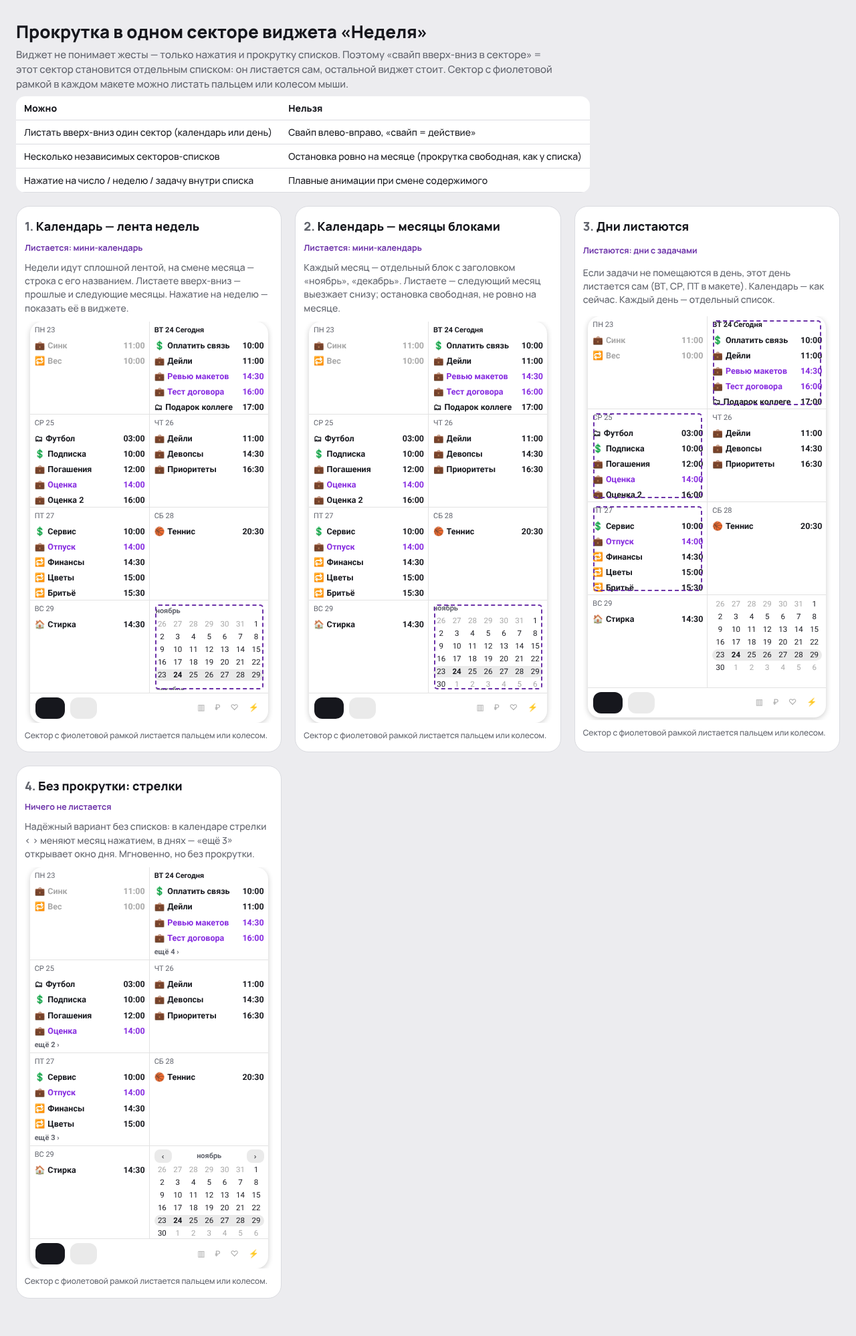
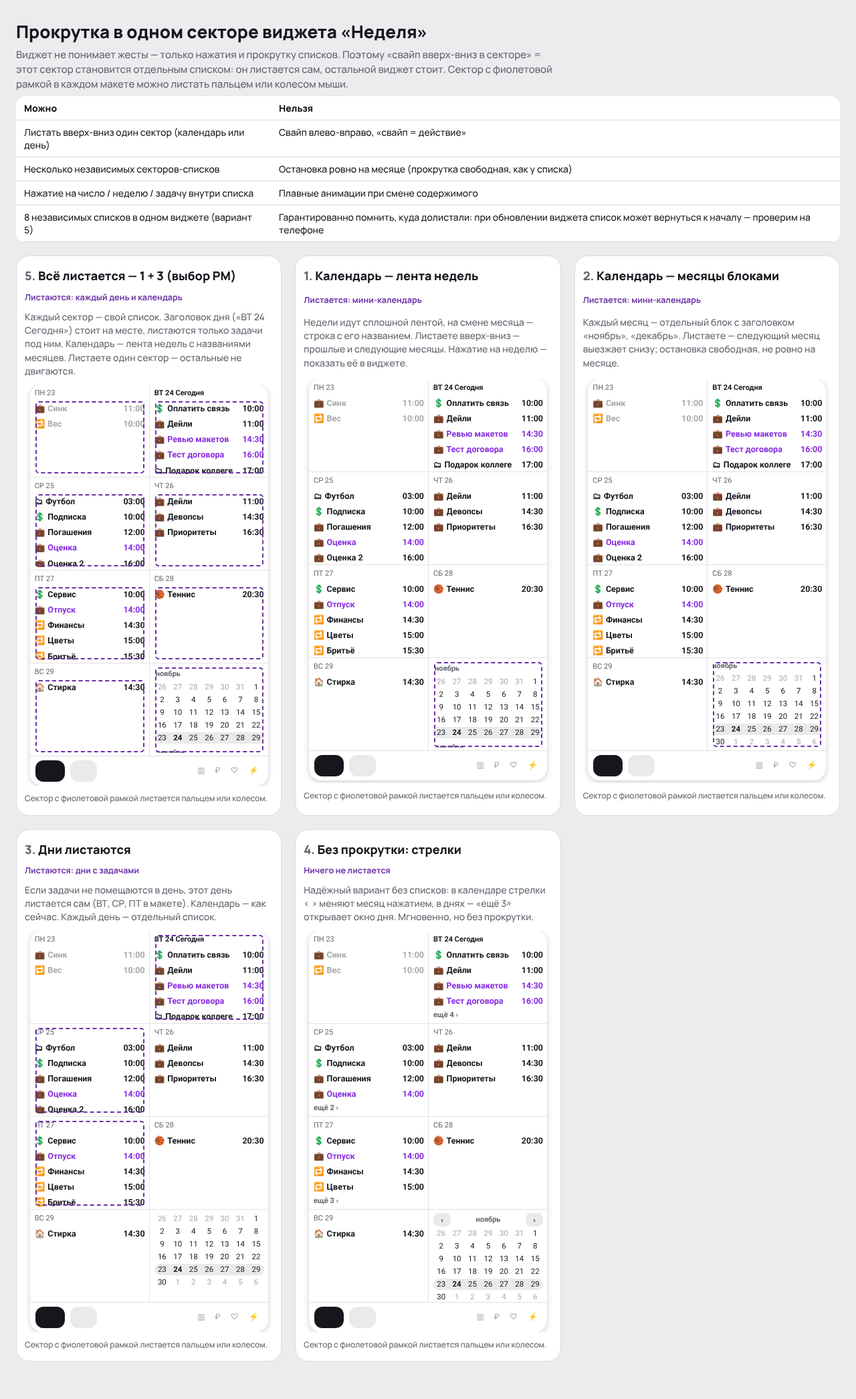
#313: вариант 5 «всё листается»; #314: 8 вариантов анимации выполнения
Claude-Session: https://claude.ai/code/session_019jJJH8rKyfX5gCn8Qf3pcD

diff --git a/design/drafts/popup-motion/completion.html b/design/drafts/popup-motion/completion.html
@@ -1,0 +1,157 @@
+<title>Выполнение задачи: анимации</title>
+<meta name="claude:viewport-fit-sides" content="cover">
+<link rel="stylesheet" href="https://fonts.googleapis.com/css2?family=Manrope:wght@500;600;700;800&display=swap">
+<!--
+  #314, вопрос PM 24.11.2026: другие варианты анимации выполнения (идея 3). Черновик на согласовании PM; основа — галерея анимаций для окон поверх рабочего стола (окно дня из виджета, окно задачи).
+  Окно — обычный экран приложения (Compose), в нём доступны любые анимации. Цвета приложения: surface #FFFFFF, textPrimary #16171D,
+  textSecondary #62656E, inactive #A9A9A9, accentSoft #EAEAEA, priority #862CE0 / #6B32A8, scrim 0x66000000.
+-->
+<style>
+  /* Страница: сетка карточек; в каждой — сцена 360 × 540 dp с окном дня и кнопка повторить. Анимации крутятся по кругу. */
+  :root { --page: #ECECEF; --ink: #16171D; --muted: #62656E; --panel: #FFFFFF; --line: #DADBE0; --chip: #E2E3E8; --on: #16171D; --on-ink: #FFFFFF; --hi: #6B32A8;
+    --font: "Manrope", system-ui, -apple-system, "Segoe UI", sans-serif;
+    --s: #FFFFFF; --t1: #16171D; --t2: #62656E; --gray: #A9A9A9; --soft: #EAEAEA; --prio: #862CE0; --red: #C62828; --green: #1F8F4E; }
+  @media (prefers-color-scheme: dark) { :root:not([data-theme="light"]) { --page: #141518; --ink: #ECECEF; --muted: #A3A5AD; --panel: #1E1F23; --line: #2E3036; --chip: #2A2C31; --on: #ECECEF; --on-ink: #16171D; --hi: #D4B8F5; color-scheme: dark } }
+  :root[data-theme="dark"] { --page: #141518; --ink: #ECECEF; --muted: #A3A5AD; --panel: #1E1F23; --line: #2E3036; --chip: #2A2C31; --on: #ECECEF; --on-ink: #16171D; --hi: #D4B8F5; color-scheme: dark }
+  * { box-sizing: border-box; }
+  body { background: var(--page); color: var(--ink); font-family: var(--font); font-size: 15px; line-height: 1.45;
+    padding-left: max(16px, env(safe-area-inset-left, 0px)); padding-right: max(16px, env(safe-area-inset-right, 0px)); padding-block: 24px 48px; }
+  .wrap { max-width: 1560px; margin: 0 auto; display: grid; gap: 20px; }
+  h1 { margin: 0; font-size: 26px; font-weight: 800; line-height: 1.2; text-wrap: balance; }
+  .lead { margin: 0; color: var(--muted); max-width: 840px; }
+  .grid { display: grid; grid-template-columns: repeat(auto-fill, minmax(min(100%, 384px), 1fr)); gap: 20px; }
+  .v { background: var(--panel); border: 1px solid var(--line); border-radius: 20px; padding: 16px 12px; display: grid; gap: 10px; justify-items: center; min-width: 0; align-content: start; }
+  .v .hd { width: 100%; max-width: 360px; display: grid; gap: 4px; }
+  .v h2 { margin: 0; font-size: 18px; font-weight: 800; display: flex; gap: 8px; }
+  .v h2 .n { color: var(--muted); font-variant-numeric: tabular-nums; }
+  .v p { margin: 0; color: var(--muted); font-size: 14px; }
+  .v .when { font-size: 12.5px; font-weight: 700; color: var(--hi); }
+  .again { font: 700 13px/1 var(--font); color: var(--ink); background: var(--chip); border: 0; border-radius: 10px; padding: 9px 12px; cursor: pointer; }
+  .again:focus-visible { outline: 2px solid #438BC9; outline-offset: 2px; }
+  .scroller { width: 100%; overflow-x: auto; display: flex; justify-content: center; }
+
+  /* Сцена: виджет (бледно), затемнение, окно дня снизу */
+  .stage { width: 360px; height: 540px; flex: none; position: relative; overflow: hidden; border-radius: 26px; background: linear-gradient(170deg, #4A2E7A, #8E3E8C 55%, #D06A6A); color: var(--t1); }
+  .wgrid { position: absolute; left: 8px; right: 8px; top: 10px; height: 300px; background: #FFFFFFEE; border-radius: 16px; display: grid; grid-template-columns: 1fr 1fr; grid-template-rows: repeat(3, 1fr); }
+  .wgrid div { border-right: 1px solid #E2E2E2; border-bottom: 1px solid #E2E2E2; padding: 5px 7px; font: 600 10.5px/1.6 Roboto, system-ui, sans-serif; color: #62656E; }
+  .wgrid div b { display: block; color: #16171D; font-size: 11px; }
+  .scrim { position: absolute; inset: 0; background: #00000066; }
+  .sheet { position: absolute; left: 8px; right: 8px; bottom: 8px; height: 330px; background: var(--s); border-radius: 22px; box-shadow: 0 6px 24px #0004; overflow: hidden; }
+  .sh-h { display: flex; justify-content: space-between; align-items: center; padding: 16px 16px 6px 18px; }
+  .sh-h b { font-size: 19px; font-weight: 800; }
+  .plus { width: 72px; height: 36px; border-radius: 18px; background: var(--t1); color: #fff; display: grid; place-items: center; font-size: 22px; font-weight: 500; }
+  .rows { position: relative; padding: 0 12px; }
+  .r { display: grid; grid-template-columns: 46px 24px 1fr 26px 26px; gap: 8px; align-items: center; height: 46px; position: relative; background: var(--s); }
+  .r .tm { font-size: 14px; font-weight: 600; color: var(--t1); font-variant-numeric: tabular-nums; }
+  .r .ic { width: 20px; height: 20px; border-radius: 50%; border: 2px solid var(--gray); position: relative; }
+  .r .ic.p { border-color: var(--prio); }
+  .r .ic.rep { border: 0; color: var(--gray); font-size: 17px; line-height: 20px; text-align: center; }
+  .r .ti { font-size: 16.5px; font-weight: 600; white-space: nowrap; overflow: hidden; text-overflow: ellipsis; position: relative; }
+  .r .bell { color: var(--t2); font-size: 15px; text-align: center; }
+  .r .em { font-size: 17px; text-align: center; }
+  .line { position: absolute; left: 70px; top: 0; bottom: 0; width: 2px; background: #E2E2E2; }
+  .now { position: absolute; left: 12px; right: 12px; height: 2px; background: var(--red); }
+  .now::before { content: ""; position: absolute; left: 56px; top: -4px; width: 10px; height: 10px; border-radius: 50%; background: var(--red); }
+  .strike { position: absolute; left: 0; top: 50%; height: 2px; width: 0; background: var(--gray); }
+  .fill { position: absolute; inset: -2px; border-radius: 50%; background: var(--gray); transform: scale(0); display: grid; place-items: center; color: #fff; font-size: 12px; font-weight: 800; }
+  .under { position: absolute; inset: 0; display: flex; align-items: center; padding: 0 16px; font-weight: 800; color: #fff; font-size: 14px; }
+  .spark { position: absolute; width: 7px; height: 7px; border-radius: 2px; }
+  .card2 { position: absolute; background: var(--s); border-radius: 22px; box-shadow: 0 6px 24px #0004; }
+  @media (prefers-reduced-motion: reduce) { .v .rm { display: block; } }
+  .rm { display: none; font-size: 12px; color: var(--muted); }
+</style>
+
+<div class="wrap">
+  <header style="display:grid;gap:8px">
+    <h1>Выполнение задачи — 8 вариантов анимации</h1>
+    <p class="lead">PM попросил другие варианты для идеи 3 «Выполнение». Во всех вариантах нажимается кружок у «Запланировать отпуск» (задача с приоритетом). Каждый крутится по кругу; «Повторить» запускает заново. Выберите один — его поставим и в приложении, и в окнах поверх рабочего стола.</p>
+    <p class="rm">В системе включено «уменьшение движения» — анимации показаны без движения.</p>
+  </header>
+  <section class="grid" id="grid"></section>
+</div>
+
+<script>
+(() => {
+  const reduced = matchMedia('(prefers-reduced-motion: reduce)').matches;
+  const ROWS = [
+    ['10:00', 'rep', 'Сервис', '💲'], ['14:00', 'p', 'Запланировать отпуск', '💼'], ['14:30', 'rep', 'Финансы', '🔁'],
+    ['15:00', 'rep', 'Цветы', '🔁'], ['20:00', '', 'Квест', '🎮'],
+  ];
+  const row = ([tm, k, ti, em], i) => `<div class="r" data-i="${i}"><span class="tm">${tm}</span><span class="ic ${k === 'p' ? 'p' : k === 'rep' ? 'rep' : ''}">${k === 'rep' ? '⟳' : ''}</span><span class="ti">${ti}</span><span class="bell">🔔</span><span class="em">${em}</span></div>`;
+  const sheetHtml = (title = 'пт, 27 ноя', rows = ROWS) => `<div class="sheet"><div class="sh-h"><b>${title}</b><span class="plus">+</span></div><div class="rows"><div class="line"></div>${rows.map(row).join('')}</div></div>`;
+  const stageHtml = inner => `<div class="stage"><div class="wgrid">${['ПН 23', 'ВТ 24 Сегодня', 'СР 25', 'ЧТ 26', 'ПТ 27', 'СБ 28'].map((d, i) => `<div data-cell="${i}"><b>${d}</b>${i === 4 ? 'Сервис 10:00<br>Отпуск 14:00<br>Финансы 14:30' : 'Задача<br>Задача'}</div>`).join('')}</div><div class="scrim"></div>${inner}</div>`;
+  const wait = ms => new Promise(r => setTimeout(r, ms));
+  const anim = (el, frames, opts) => el.animate(frames, { fill: 'both', easing: 'cubic-bezier(.2,.8,.2,1)', ...opts }).finished.catch(() => {});
+  const spring = 'cubic-bezier(.34,1.56,.64,1)';
+
+  /* Общее: задача 2 («Запланировать отпуск»), её кружок и название. */
+  const pick = st => { const r = st.querySelector('[data-i="1"]'); return { r, ic: r.querySelector('.ic'), ti: r.querySelector('.ti') }; };
+  const tick = (color = 'var(--prio)') => `<svg viewBox="0 0 20 20" width="20" height="20" style="position:absolute;inset:-2px"><circle cx="10" cy="10" r="10" fill="${color}" class="dot" style="transform-origin:10px 10px"/><path d="M5.5,10.5l3,3l6,-6.5" fill="none" stroke="#fff" stroke-width="2.4" stroke-linecap="round" stroke-linejoin="round" class="chk" pathLength="1" stroke-dasharray="1" stroke-dashoffset="1"/></svg>`;
+  const draw = async (ic, ms = 260) => { const svg = ic.querySelector('svg'); await anim(svg.querySelector('.dot'), [{ transform: 'scale(0)' }, { transform: 'scale(1)' }], { duration: 220, easing: spring }); await anim(svg.querySelector('.chk'), [{ strokeDashoffset: 1 }, { strokeDashoffset: 0 }], { duration: ms, easing: 'ease-out' }); };
+  const others = (st, from) => [...st.querySelectorAll('.r')].filter(x => +x.dataset.i > from);
+
+  const A = [
+    { name: 'Галочка и бледнеет на месте', when: 'Спокойный', desc: 'Кружок заливается, галочка рисуется штрихом, название сереет и зачёркивается. Задача остаётся на своём месте — ничего не прыгает.',
+      async run(st) { const { r, ic, ti } = pick(st); ic.style.border = '0'; ic.innerHTML = tick(); await wait(450); await draw(ic);
+        ti.style.textDecorationColor = 'transparent'; anim(ti, [{ color: '#16171D' }, { color: '#A9A9A9' }], { duration: 300 }); ti.style.textDecoration = 'line-through'; anim(ti, [{ textDecorationColor: 'transparent' }, { textDecorationColor: '#A9A9A9' }], { duration: 300 });
+        anim(r.querySelector('.tm'), [{ color: '#16171D' }, { color: '#A9A9A9' }], { duration: 300 }); await wait(1800); } },
+    { name: 'Схлопывается', when: 'Список короче', desc: 'Галочка, затем строка плавно сжимается по высоте и исчезает; задачи ниже подтягиваются. Выполненные — в «Выполнено» внизу.',
+      async run(st) { const { r, ic } = pick(st); ic.style.border = '0'; ic.innerHTML = tick(); await wait(450); await draw(ic); await wait(250);
+        anim(r, [{ opacity: 1 }, { opacity: 0 }], { duration: 220 }); others(st, 1).forEach(x => anim(x, [{ transform: 'none' }, { transform: 'translateY(-46px)' }], { duration: 380, delay: 120 })); await wait(1700); } },
+    { name: 'Волна по строке', when: 'Заметный', desc: 'От кружка по строке пробегает светло-фиолетовая волна фона, за ней текст сереет и зачёркивается.',
+      async run(st) { const { r, ic, ti } = pick(st); ic.style.border = '0'; ic.innerHTML = tick(); r.style.overflow = 'hidden';
+        r.insertAdjacentHTML('afterbegin', '<span style="position:absolute;left:0;top:4px;bottom:4px;width:0;background:#F1E8FA;border-radius:12px;z-index:0" class="wave"></span>'); [...r.children].forEach(c => { if (!c.classList.contains('wave')) c.style.position = 'relative'; c.style.zIndex = c.classList.contains('wave') ? 0 : 1; });
+        await wait(450); draw(ic); await anim(r.querySelector('.wave'), [{ width: '0%' }, { width: '100%' }], { duration: 420, easing: 'ease-out' });
+        ti.style.textDecoration = 'line-through'; anim(ti, [{ color: '#16171D' }, { color: '#A9A9A9' }], { duration: 250 }); anim(r.querySelector('.wave'), [{ opacity: 1 }, { opacity: 0 }], { duration: 500, delay: 200 }); await wait(1700); } },
+    { name: 'Пружинный чек', when: 'Игривый', desc: 'Кружок увеличивается с пружиной, внутри «выпрыгивает» галочка, строка чуть подскакивает. Задача бледнеет на месте.',
+      async run(st) { const { r, ic, ti } = pick(st); ic.style.border = '0'; ic.innerHTML = tick(); await wait(450);
+        anim(ic, [{ transform: 'scale(1)' }, { transform: 'scale(1.45)' }, { transform: 'scale(1)' }], { duration: 520, easing: spring }); await draw(ic, 200);
+        anim(r, [{ transform: 'none' }, { transform: 'translateY(-5px)' }, { transform: 'none' }], { duration: 360, easing: spring });
+        ti.style.textDecoration = 'line-through'; anim(r, [{ opacity: 1 }, { opacity: .5 }], { duration: 400, delay: 250 }); await wait(1700); } },
+    { name: 'Мини-искры', when: 'Маленький праздник', desc: 'При каждой выполненной задаче из кружка разлетается 6–8 искр, затем строка бледнеет. Большой праздник (идея 4) — когда закрыт весь день.',
+      async run(st) { const { r, ic, ti } = pick(st); ic.style.border = '0'; ic.innerHTML = tick(); await wait(450); draw(ic);
+        const box = st.getBoundingClientRect(), at = ic.getBoundingClientRect(); const colors = ['#862CE0', '#C9B3EA', '#438BC9', '#359E8A'];
+        for (let i = 0; i < 8; i++) { const s = document.createElement('span'); s.className = 'spark'; s.style.background = colors[i % 4]; s.style.width = s.style.height = '5px'; s.style.borderRadius = '50%';
+          s.style.left = (at.left - box.left + 8) + 'px'; s.style.top = (at.top - box.top + 8) + 'px'; st.appendChild(s);
+          const a = i / 8 * Math.PI * 2; anim(s, [{ transform: 'translate(0,0)', opacity: 1 }, { transform: `translate(${Math.cos(a) * 26}px,${Math.sin(a) * 26}px)`, opacity: 0 }], { duration: 520, easing: 'cubic-bezier(.1,.7,.3,1)' }); }
+        await wait(450); ti.style.textDecoration = 'line-through'; anim(r, [{ opacity: 1 }, { opacity: .5 }], { duration: 400 }); await wait(1600); } },
+    { name: 'Переворот', when: 'Эффектный', desc: 'Строка переворачивается, как карточка, и на обороте на секунду видно «Готово ✓», затем исчезает, соседи подтягиваются.',
+      async run(st) { const { r } = pick(st); await wait(500); r.style.transformOrigin = '50% 50%';
+        await anim(r, [{ transform: 'perspective(600px) rotateX(0deg)' }, { transform: 'perspective(600px) rotateX(90deg)' }], { duration: 220, easing: 'ease-in' });
+        const keep = r.innerHTML; r.innerHTML = '<span></span><span class="ic" style="border:0;background:var(--prio);color:#fff;display:grid;place-items:center;font-size:12px;font-weight:800">✓</span><span class="ti" style="color:var(--prio)">Готово</span><span></span><span></span>';
+        await anim(r, [{ transform: 'perspective(600px) rotateX(-90deg)' }, { transform: 'perspective(600px) rotateX(0deg)' }], { duration: 260, easing: 'ease-out' });
+        await wait(700); anim(r, [{ opacity: 1 }, { opacity: 0 }], { duration: 200 }); others(st, 1).forEach(x => anim(x, [{ transform: 'none' }, { transform: 'translateY(-46px)' }], { duration: 360, delay: 80 })); void keep; await wait(1500); } },
+    { name: 'Уходит вниз', when: 'Как в 3, мягче', desc: 'Галочка, затем строка сереет и плавно переезжает в конец списка, к выполненным — без зачёркивания, просто бледная.',
+      async run(st) { const { r, ic } = pick(st); ic.style.border = '0'; ic.innerHTML = tick('#A9A9A9'); await wait(450); await draw(ic); await wait(200);
+        anim(r, [{ opacity: 1, transform: 'none' }, { opacity: .45, transform: 'translateY(138px)' }], { duration: 650, easing: 'cubic-bezier(.4,0,.2,1)' });
+        others(st, 1).forEach(x => anim(x, [{ transform: 'none' }, { transform: 'translateY(-46px)' }], { duration: 650, easing: 'cubic-bezier(.4,0,.2,1)' })); await wait(1700); } },
+    { name: 'Удержание с прогрессом', when: 'Защита от случайных нажатий', desc: 'Кружок нужно подержать ~0,4 с: по ободу бежит заполнение, отпустил раньше — ничего не случилось. Потом галочка и бледнеет.',
+      async run(st) { const { r, ic, ti } = pick(st); ic.style.border = '0';
+        ic.innerHTML = '<svg viewBox="0 0 24 24" width="24" height="24" style="position:absolute;inset:-4px;transform:rotate(-90deg)"><circle cx="12" cy="12" r="10" fill="none" stroke="#E2E2E2" stroke-width="2"/><circle cx="12" cy="12" r="10" fill="none" stroke="#862CE0" stroke-width="2.4" pathLength="1" stroke-dasharray="1" stroke-dashoffset="1" class="ring"/></svg>';
+        await wait(500); await anim(ic.querySelector('.ring'), [{ strokeDashoffset: 1 }, { strokeDashoffset: 0 }], { duration: 420, easing: 'linear' });
+        ic.innerHTML = tick(); await draw(ic, 200); ti.style.textDecoration = 'line-through'; anim(r, [{ opacity: 1 }, { opacity: .5 }], { duration: 350 }); await wait(1700); } },
+  ];
+
+  const grid = document.getElementById('grid');
+  A.forEach((a, i) => {
+    const el = document.createElement('article'); el.className = 'v';
+    el.innerHTML = `<div class="hd"><h2><span class="n">${i + 1}</span>${a.name}</h2><span class="when">${a.when}</span><p>${a.desc}</p></div><div class="scroller"><div class="slot"></div></div><button type="button" class="again">Повторить</button>`;
+    grid.appendChild(el);
+    const slot = el.querySelector('.slot');
+    let token = 0;
+    const play = async () => {
+      const id = ++token;
+      slot.innerHTML = stageHtml(sheetHtml());
+      if (reduced) return;
+      await wait(300);
+      await a.run(slot.querySelector('.stage'));
+      if (id === token) setTimeout(() => { if (id === token && visible.has(el)) play(); }, 600);
+    };
+    el.querySelector('.again').addEventListener('click', play);
+    el._play = play;
+  });
+  const visible = new Set();
+  const io = new IntersectionObserver(es => es.forEach(e => { if (e.isIntersecting) { if (!visible.has(e.target)) { visible.add(e.target); e.target._play(); } } else visible.delete(e.target); }));
+  document.querySelectorAll('.v').forEach(v => { io.observe(v); if (reduced) v._play(); });
+})();
+</script>

diff --git a/design/drafts/widget-scroll/screens.html b/design/drafts/widget-scroll/screens.html
@@ -74,6 +74,7 @@
       <tr><td>Листать вверх-вниз один сектор (календарь или день)</td><td>Свайп влево-вправо, «свайп = действие»</td></tr>
       <tr><td>Несколько независимых секторов-списков</td><td>Остановка ровно на месяце (прокрутка свободная, как у списка)</td></tr>
       <tr><td>Нажатие на число / неделю / задачу внутри списка</td><td>Плавные анимации при смене содержимого</td></tr>
+      <tr><td>8 независимых списков в одном виджете (вариант 5)</td><td>Гарантированно помнить, куда долистали: при обновлении виджета список может вернуться к началу — проверим на телефоне</td></tr>
     </table></div>
   </header>
   <section class="grid" id="grid"></section>
@@ -102,6 +103,8 @@
   const dayHead = i => { const d = add(MON, i); return `<div class="dh">${same(d, TODAY) ? `<b>${DAYS[i]} ${d.getDate()} Сегодня</b>` : `${DAYS[i]} ${d.getDate()}`}</div>`; };
   const day = (i, opts = {}) => {
     const list = T[i];
+    // Вариант 5: заголовок дня стоит на месте, листаются только задачи под ним.
+    if (opts.tasks) return `<div class="cell" style="display:flex;flex-direction:column">${dayHead(i)}<div class="scroll live" style="flex:1;min-height:0">${list.map(task).join('')}</div></div>`;
     if (opts.scroll) return `<div class="cell"><div class="scroll live" style="height:100%">${dayHead(i)}${list.map(task).join('')}</div></div>`;
     const fit = 5, cut = opts.more && list.length > fit, shown = list.slice(0, cut ? fit - 1 : fit);
     return `<div class="cell">${dayHead(i)}${shown.map(task).join('')}${cut ? `<div class="more">ещё ${list.length - shown.length} ›</div>` : ''}</div>`;
@@ -142,6 +145,8 @@
   const days = opts => [...Array(7)].map((_, i) => day(i, opts));
 
   const V = [
+    { n: 5, name: 'Всё листается — 1 + 3 (выбор PM)', tag: 'Листаются: каждый день и календарь', desc: 'Каждый сектор — свой список. Заголовок дня («ВТ 24 Сегодня») стоит на месте, листаются только задачи под ним. Календарь — лента недель с названиями месяцев. Листаете один сектор — остальные не двигаются.',
+      html: () => widget([...[...Array(7)].map((_, i) => day(i, { tasks: true })), calCell(`<div class="scroll live" style="height:100%" data-strip>${weekStrip()}</div>`)]) },
     { n: 1, name: 'Календарь — лента недель', tag: 'Листается: мини-календарь', desc: 'Недели идут сплошной лентой, на смене месяца — строка с его названием. Листаете вверх-вниз — прошлые и следующие месяцы. Нажатие на неделю — показать её в виджете.',
       html: () => widget([...days({}), calCell(`<div class="scroll live" style="height:100%" data-strip>${weekStrip()}</div>`)]) },
     { n: 2, name: 'Календарь — месяцы блоками', tag: 'Листается: мини-календарь', desc: 'Каждый месяц — отдельный блок с заголовком «ноябрь», «декабрь». Листаете — следующий месяц выезжает снизу; остановка свободная, не ровно на месяце.',

diff --git a/design/drafts/popup-motion/README.md b/design/drafts/popup-motion/README.md
@@ -2,3 +2,6 @@
 
 Статус — на согласовании PM (24.11.2026). [Issue #314](https://github.com/prostovasei/simpe-tasks-app/issues/314).
 - [screens.html](screens.html) — 12 живых идей для окна дня. [Снимок](gallery.png).
+
+Ответ PM 24.11.2026: делаем 1, 2, 4, 8, 11, 12; не делаем 5, 6, 7, 9, 10. По 3 «Выполнение» — другие варианты:
+- [completion.html](completion.html) — 8 вариантов: на месте, схлопывается, волна, пружина, мини-искры, переворот, уходит вниз, удержание. [Снимок](completion.png).

diff --git a/design/drafts/widget-scroll/README.md b/design/drafts/widget-scroll/README.md
@@ -2,3 +2,5 @@
 
 Статус — на согласовании PM (24.11.2026). [Issue #313](https://github.com/prostovasei/simpe-tasks-app/issues/313).
 - [screens.html](screens.html) — 4 варианта: календарь лентой недель, месяцами-блоками, листаются дни, стрелки без прокрутки. [Снимок](variants.png).
+
+Ответ PM 24.11.2026: совместить 1 и 3 — добавлен вариант 5 «Всё листается»: каждый день (заголовок на месте, листаются задачи) и календарь лентой недель.
